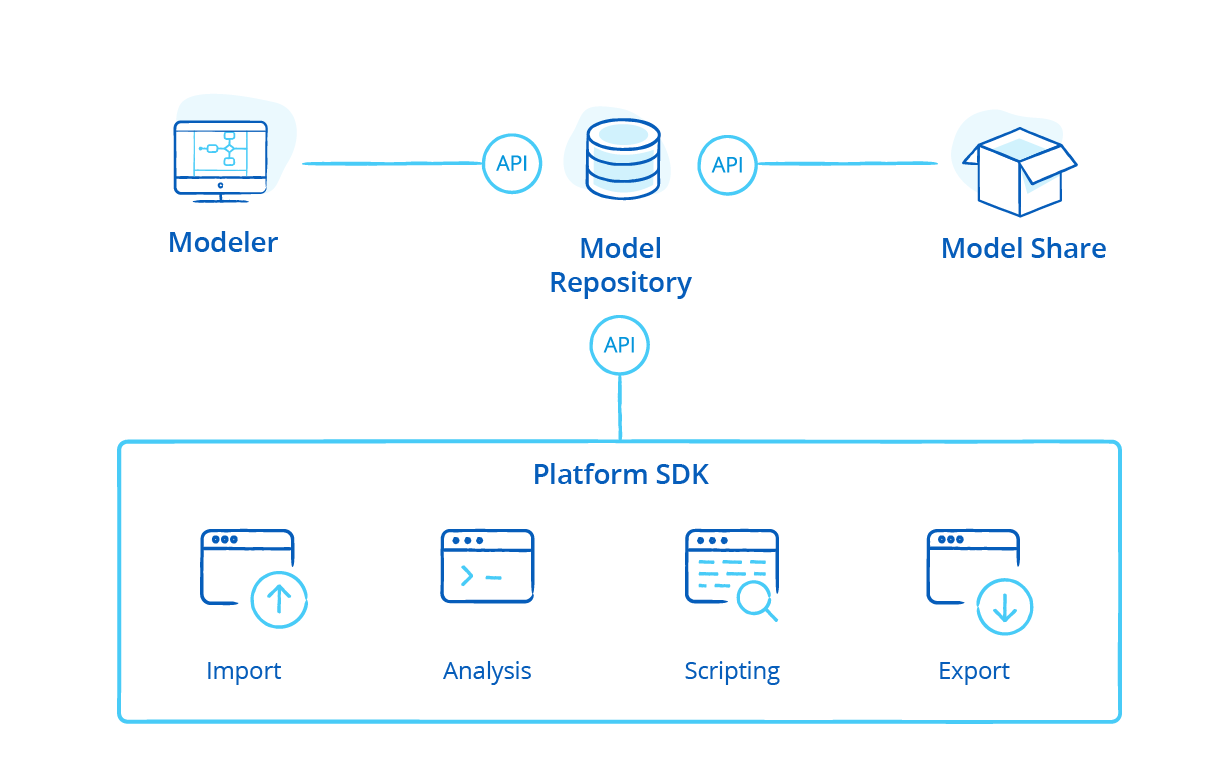
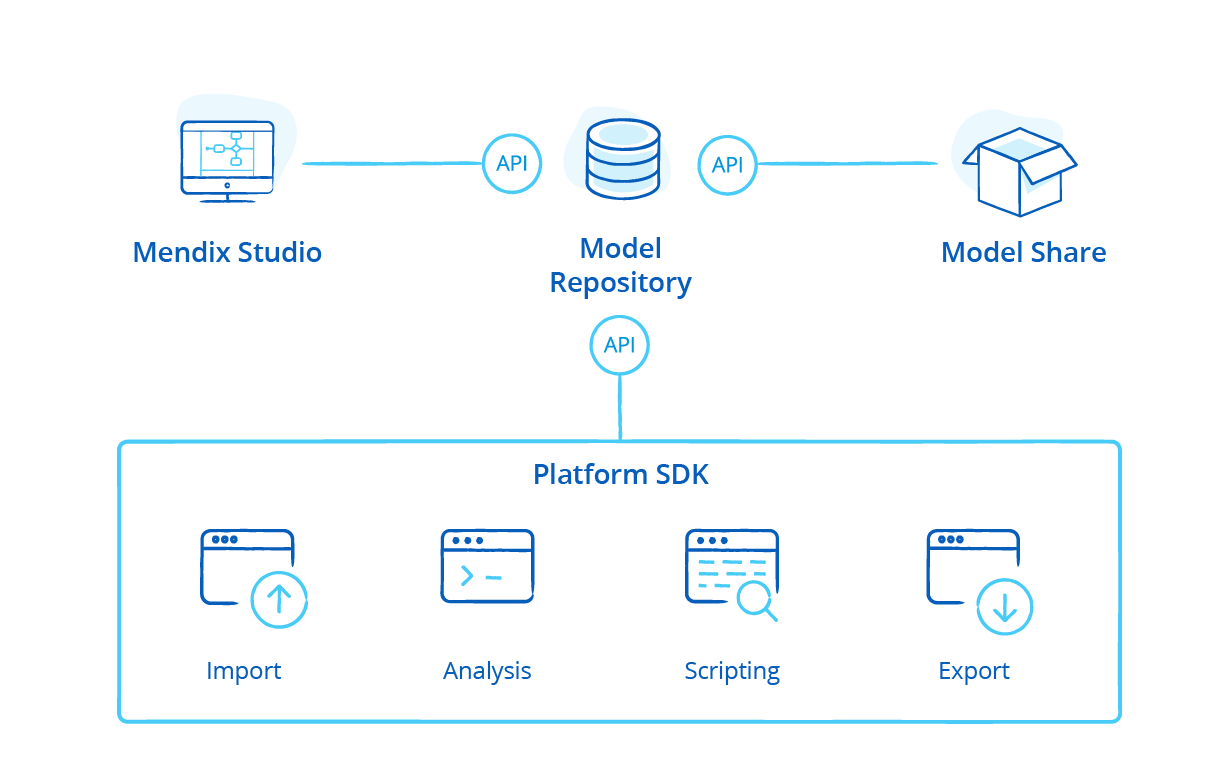
Implement name change

Changed region(s): [[0.0932, 0.1531, 0.2796, 0.3367], [0.7768, 0.3061, 0.9011, 0.3367]]

diff --git a/content/evaluation-guide/enterprise-capabilities/extensibility.md b/content/evaluation-guide/enterprise-capabilities/extensibility.md
@@ -81,7 +81,7 @@ For more information, see this Mendix documentation:
 
 ## 2 How Can I Provide Reusable Connectors to Third-Party Services? {#connectors}
 
-Generic connectors can be easily shared with other developers and companies. You can export a connector module from the Mendix Modeler that can then be imported into other Mendix app projects. The connector module can also be uploaded to the Mendix App Store – either to the Public App Store so anyone can use it, or to your company's Private App Store so that only developers in your company can reuse it. For more information, see [How to Share App Store Content](https://docs.mendix.com/developerportal/app-store/share-app-store-content) in the Mendix documentation.
+Generic connectors can be easily shared with other developers and companies. You can export a connector module from Mendix Studio and Mendix Studio Pro that can then be imported into other Mendix app projects. The connector module can also be uploaded to the Mendix App Store – either to the Public App Store so anyone can use it, or to your company's Private App Store so that only developers in your company can reuse it. For more information, see [How to Share App Store Content](https://docs.mendix.com/developerportal/app-store/share-app-store-content) in the Mendix documentation.
 
 Connectors include everything you need to use them, like microflow activities, logic, domain models, Java code, and any required Java libraries. This complexity will not be visible to the users of your connector. They can simply drag your custom microflow activities from the toolbox into any microflow to use your connector.
 
@@ -99,8 +99,8 @@ And for more information on building connectors, see [How to Build Microflow Act
 
 Mendix provides seamless integration with a number of tools that developers use:
 
-* By selecting **Deploy for Eclipse** in the Modeler, your Mendix app project will be made compatible with Eclipse,w hich means you can run and debug your app from Eclipse. You will also have access to the Java source code, where you can implement custom Java actions. For more information, see [Using Eclipse](https://docs.mendix.com/refguide/using-eclipse) and [How to Debug Java actions](https://docs.mendix.com/howto/monitoring-troubleshooting/debug-java-actions) in the Mendix documentation.
-* Many Mendix developers use IntelliJ IDEA. IntelliJ enables you to import Eclipse projects, so by selecting **Deploy for Eclipse** in the Mendix Modeler, you will also be able to do all your custom Java actions coding in IntelliJ.
+* By selecting **Deploy for Eclipse** in Mendix Studio and Mendix Studio Pro, your Mendix app project will be made compatible with Eclipse,w hich means you can run and debug your app from Eclipse. You will also have access to the Java source code, where you can implement custom Java actions. For more information, see [Using Eclipse](https://docs.mendix.com/refguide/using-eclipse) and [How to Debug Java actions](https://docs.mendix.com/howto/monitoring-troubleshooting/debug-java-actions) in the Mendix documentation.
+* Many Mendix developers use IntelliJ IDEA. IntelliJ enables you to import Eclipse projects, so by selecting **Deploy for Eclipse** in Mendix Studio and Mendix Studio Pro, you will also be able to do all your custom Java actions coding in IntelliJ.
 * Widget developers can benefit from the [Widget Generator](https://docs.mendix.com/howto/widget-development/scaffold-a-widget-with-the-yeoman-widget-generator) to quickly scaffold a new Mendix widget. This supports a number of commonly used JavaScript tools, like Yeoman, NodeJS, and Grunt. As this relies on common tools, you can edit your JavaScript widgets using a number of popular JavaScript IDEs, such as Brackets and WebStorm.
 
 ## 4 What Open Standards Does Mendix Support?

diff --git a/content/evaluation-guide/app-lifecycle/logic.md b/content/evaluation-guide/app-lifecycle/logic.md
@@ -66,7 +66,7 @@ A rule is a special kind of microflow and can be used to express business rules.
 
 ## 5 How Can I Add Custom Code to My Application?
 
-On the server side, Mendix provides out-of-the-box microflow logic and integration features based on REST, OData, and SOAP web services. This means that there is not often a need for custom code. If you do need to extend the microflow logic with your own (via a library call or an external service call that exposes via Java), the Mendix Modeler allows you to build Java logic that can be used directly from within the Mendix Modelers.
+On the server side, Mendix provides out-of-the-box microflow logic and integration features based on REST, OData, and SOAP web services. This means that there is not often a need for custom code. If you do need to extend the microflow logic with your own (via a library call or an external service call that exposes via Java), Mendix Studio and Mendix Studio Pro allow you to build Java logic that can be used directly from within the IDEs.
 
 For more details, see the following sections:
 
@@ -83,7 +83,7 @@ Integration with a third-generation programming language (in this case, Java) is
 ![Eclipse Integration Example](attachments/eclipse.png)
 {{% /image_container %}}
 
-In essence, you are never limited by the reach of a specific DSL and can always resort to the use of custom Java functions. Custom Java functions can be called from within a model, and the output can be used directly. The interface of each action (which equals a Java function) is also defined within the model. The name, parameters, and return values are all declared in Mendix Studio Pro. The Modeler generates a Java template class for each action, which is the hook where custom code can be added.
+In essence, you are never limited by the reach of a specific DSL and can always resort to the use of custom Java functions. Custom Java functions can be called from within a model, and the output can be used directly. The interface of each action (which equals a Java function) is also defined within the model. The name, parameters, and return values are all declared in Mendix Studio Pro. Mendix Studio and Mendix Studio Pro generates a Java template class for each action, which is the hook where custom code can be added.
 
 Whenever the interface definition in the app is renamed or refactored, the Java class template automatically changes without losing any of your custom code. Changes are also automatically caught by the Mendix Platform’s built-in consistency checker, which raises consistency errors in the custom code early in the development process. This ensures that the Java code will compile and the app extensions are consistent with the model before deployment takes place, saving valuable time during development iterations.
 
@@ -113,7 +113,7 @@ This error handling process ensures consistency across a Mendix app.
 
 ## 8 How Can I Reuse Logic?
 
-The following features in the Mendix Modelers make logic reuse easy:
+The following features in Mendix Studio and Mendix Studio Pro make logic reuse easy:
 
 * Existing **microflows** and rules can be called from any other microflow or page context in the Mendix app project. Mendix has refactoring tooling built in that makes it easy to extract logic from an existing microflow into a new microflow containing a well-defined interface of input parameters and a return type. The logic is then fully reusable from any other context.
 * You can reuse your existing **Java libraries and custom code** in the app logic.

diff --git a/content/evaluation-guide/app-lifecycle/model-consistency.md b/content/evaluation-guide/app-lifecycle/model-consistency.md
@@ -26,12 +26,12 @@ At the same time, Mendix offers professional developers the possibility to make 
 
 Here are some examples of consistency checking on the Mendix Platform:
 
-* The Modeler prevents the deployment of an app that has an input field connected to a wrongly-typed attribute or to an attribute that no longer exists (for example, a text box connected to a Boolean attribute).
+* Mendix Studio and Mendix Studio Pro prevent the deployment of an app that has an input field connected to a wrongly-typed attribute or to an attribute that no longer exists (for example, a text box connected to a Boolean attribute).
 * Mendix automatically hides navigation menu options from the user that lead to pages for which the current user does not have sufficient rights.
-* The Modeler shows an error if the user with a given role can navigate to a page that displays entities and/or attributes that are inaccessible to users of that role due to security settings.
+* Mendix Studio and Mendix Studio Pro show an error if the user with a given role can navigate to a page that displays entities and/or attributes that are inaccessible to users of that role due to security settings.
 * When defining data retrievals in your application, Mendix validates whether the resulting database queries are both syntactically and semantically correct and will execute successfully against the database.
 
-The implication for testing is that these consistency checks can point out or prevent defects that could easily slip through in non-Mendix development efforts. This results in fewer defects to deal with. In some instances, these checks also work proactively (for example, when you change the name of an attribute, the Modeler adjusts all references to this attribute). This again reduces the chances of defects slipping into your model.
+The implication for testing is that these consistency checks can point out or prevent defects that could easily slip through in non-Mendix development efforts. This results in fewer defects to deal with. In some instances, these checks also work proactively (for example, when you change the name of an attribute, Mendix Studio and Mendix Studio Pro adjust all references to this attribute). This again reduces the chances of defects slipping into your model.
 
 ### 1.2 Single Modeling Environment
 
@@ -55,7 +55,7 @@ The intrinsic quality and consistency checking mechanisms in Mendix are key cont
 
 ### 1.5 Model Refactoring
 
-The Mendix Modeler has extensive support for model refactoring. For example, when the user refactors the name of a page or a microflow variable, the Modeler will propagate the refactoring in all model parts, keeping the model consistent. Such refactoring is automatically and consistently propagated throughout the whole model.
+Mendix Studio and Mendix Studio Pro have extensive support for model refactoring. For example, when the user refactors the name of a page or a microflow variable, Mendix Studio and Mendix Studio Pro will propagate the refactoring in all model parts, keeping the model consistent. Such refactoring is automatically and consistently propagated throughout the whole model.
 
 When the refactoring requires a conscious decision by the user (for example, adding an additional input parameter to a microflow signature), the model consistency checks provide direct feedback on which parts of the model require further action before the the application can be deployed again.
 

diff --git a/content/evaluation-guide/enterprise-capabilities/openness-api-sdk.md b/content/evaluation-guide/enterprise-capabilities/openness-api-sdk.md
@@ -50,7 +50,7 @@ These are some examples of how you can increase productivity and quality using t
 
 These are some examples of how you can extend the Mendix Platform with new functionality:
 
-* The [Connector Kit](https://www.mendix.com/blog/introducing-mendix-connector-kit/) enables creating custom integration and connectors. You can create a set of visual reusable microflow activities to handle integration with all sorts of services and existing applications. The Mendix App Store contains connectors for services like [Slack](https://appstore.home.mendix.com/link/app/2978/) and [Twitter](https://appstore.home.mendix.com/link/app/2922/). Using these services becomes as simple as dragging a microflow activity from your Modeler toolbox into a microflow.
+* The [Connector Kit](https://www.mendix.com/blog/introducing-mendix-connector-kit/) enables creating custom integration and connectors. You can create a set of visual reusable microflow activities to handle integration with all sorts of services and existing applications. The Mendix App Store contains connectors for services like [Slack](https://appstore.home.mendix.com/link/app/2978/) and [Twitter](https://appstore.home.mendix.com/link/app/2922/). Using these services becomes as simple as dragging a microflow activity from your Mendix Studio and Mendix Studio Pro toolbox into a microflow.
 * Since connectors are written in Java, they can use any Java library available. That means you can seamlessly integrate existing scientific libraries into your Mendix application. And via the [Mendix Runtime API](https://docs.mendix.com/refguide/runtime), a connector can utilize all the functionality in your app model, including entities, data sets, microflows, pages, and configurations.
 * The Mendix Runtime API is also used to provide integration for Mendix apps with existing identity management systems like Microsoft Active Directory. To see how this is done, check out the [SAML](https://appstore.home.mendix.com/link/app/1174/Mendix/SAML) module in the Mendix App Store.
 * You can extend the way data is stored and retrieved in Mendix. Through the SQL API, it is possible to use database-specific functionality like indexes that can improve performance for specific situations. Integrations with alternative databases (for example, NoSQL databases) are also possible. For details, see the [Redis Connector](https://appstore.home.mendix.com/link/app/3087/Appronto/Redis-connector) and [Cassandra Connector](https://appstore.home.mendix.com/link/app/66289/TimeSeries/Cassandra-Connector) in the Mendix App Store.

diff --git a/content/evaluation-guide/app-capabilities/front-end.md b/content/evaluation-guide/app-capabilities/front-end.md
@@ -58,7 +58,7 @@ In addition to nanoflows, it is possible to directly use client-side expressions
 
 ## 4 How Can I Extend the Mendix Front-End? {#extend}
 
-Mendix makes it possible to extend the front-end by creating custom widgets that have a seamless integration with the Modeler and making them part of your app's model. You can define all types of parameters and make these widgets reusable. The input parameters are transformed into easy-to-use settings screens that can be configured from the Modeler. In addition, custom widgets have preview capabilities for a WYSIWYG effect, making it easy to get an impression of the widget and quickly verify its configuration.
+Mendix makes it possible to extend the front-end by creating custom widgets that have a seamless integration with Mendix Studio and Mendix Studio Pro to make them part of your app's model. You can define all types of parameters and make these widgets reusable. The input parameters are transformed into easy-to-use settings screens that can be configured from Mendix Studio and Mendix Studio Pro. In addition, custom widgets have preview capabilities for a WYSIWYG effect, making it easy to get an impression of the widget and quickly verify its configuration.
 
 You can version custom widgets and upload them to a Mendix Private App Store so that other developers can easily use them. It is also possible to share widgets manually or embed them in (company) starter apps.
 
@@ -70,6 +70,6 @@ For more information, see the [Widget Development](https://docs.mendix.com/howto
 
 ## 5 Does Mendix Support Multilingual Apps?
 
-Mendix fully supports multilingual apps. In the Modeler, you can configure multiple languages per app, and texts and captions can all be configured for multiple languages. Per language, default number and date formats can be configured for the whole app. When you use numbers and dates they are automatically applied, but it is also possible to locally specify custom formats.
+Mendix fully supports multilingual apps. In Mendix Studio and Mendix Studio Pro, you can configure multiple languages per app, and texts and captions can all be configured for multiple languages. Per language, default number and date formats can be configured for the whole app. When you use numbers and dates they are automatically applied, but it is also possible to locally specify custom formats.
 
 For more details, see the section [How Does Mendix Support Multilingual Apps?](../app-lifecycle/user-interfaces#multi-lingual) in *User Interfaces*.

diff --git a/content/evaluation-guide/app-lifecycle/test-automation-qa.md b/content/evaluation-guide/app-lifecycle/test-automation-qa.md
@@ -12,7 +12,7 @@ tags: ["test automation", "quality assurance", "model", "aqm", "unit test", "fun
 
 The Mendix Platform provides development teams with an extensive toolset and extension points to set up quality assurance via efficient test automation.
 
-Mendix apps are built from standard components that are already pre-tested by Mendix. The internal consistency of a custom application model that a development team builds on top of these components is continuously checked by the Mendix Modeler. The goal of this is to catch common modeling mistakes and issues early in development. For more details, see  [How Does Mendix Ensure the Quality of My Apps?](#ensure) below.
+Mendix apps are built from standard components that are already pre-tested by Mendix. The internal consistency of a custom application model that a development team builds on top of these components is continuously checked by Mendix Studio and Mendix Studio Pro. The goal of this is to catch common modeling mistakes and issues early in development. For more details, see  [How Does Mendix Ensure the Quality of My Apps?](#ensure) below.
 
 During development, the [Mendix Application Quality Monitor (AQM)](https://docs.mendix.com/aqm/) provides insight into the quality of the application models that you are building. Dashboards provide high-level details and allow you to drill down at the microflow level. For more details, see the section [What Tools Are Available for Quality-Monitoring Mendix Apps?](quality-monitoring#quality-monitoring) in *Quality Monitoring*.
 
@@ -38,7 +38,7 @@ These three main ways are explained below in detail.
 
 ### 2.1 Enforcing Consistency Within Your Application Model
 
-The Mendix Modeler continuously monitors whether the entirety of the application model is internally consistent. For example, the microflow activities and page elements you define need to be consistent with the domain model. The Modeler will show an error and prevent the deployment of an application that does not pass the consistency checks.
+Mendix Studio and Mendix Studio Pro continuously monitor whether the entirety of the application model is internally consistent. For example, the microflow activities and page elements you define need to be consistent with the domain model. Mendix Studio and Mendix Studio Pro will show an error and prevent the deployment of an application that does not pass the consistency checks.
 
 For more information, see [Model Consistency](model-consistency).
 

diff --git a/content/evaluation-guide/app-lifecycle/app-development.md b/content/evaluation-guide/app-lifecycle/app-development.md
@@ -14,7 +14,7 @@ The Mendix platform is designed for a variety of app developers, from business-o
 
 ![The Developer Continuum - Solution Focused vs Technology Focused](attachments/developer-continuum.png)
 
-**Business Analysts** and **Business Developers** can directly use Mendix Studio to build, review, and collaborate on an app. Mendix Studio provides the tools to build the app, regardless of the user's programming experience or background. Users familiar with Mendix Studio can also start using Mendix Studio Pro if more advanced app features need to be added. The Modelers share the same concepts and terminology, which makes for a smooth user experience.
+**Business Analysts** and **Business Developers** can directly use Mendix Studio to build, review, and collaborate on an app. Mendix Studio provides the tools to build the app, regardless of the user's programming experience or background. Users familiar with Mendix Studio can also start using Mendix Studio Pro if more advanced app features need to be added. Mendix Studio and Mendix Studio Pros share the same concepts and terminology, which makes for a smooth user experience.
 
 **Developers** with a technical programming background (for example, JavaScript, Java, or .NET) can use Mendix Studio Pro along with CSS, Java, and JavaScript to build, customize, and extend a Mendix app.
 
@@ -28,7 +28,7 @@ For information on getting started with Mendix, have a look at [First Steps with
 
 ## 3 How Does Mendix Enable Model-Driven Development? {#enable}
 
-![Web and Desktop Application Modelers](attachments/BothModelers.png)
+![Mendix Studio and Mendix Studio Pro app-modeling](attachments/both-studios.png)
 
 While both Mendix Studio and Mendix Studio Pro environments support the ability to build data models, pages, and logic, their target audiences differ, and their features are tuned accordingly.
 
@@ -78,7 +78,7 @@ The **Instant Update** feature in Mendix Studio Pro provides the fastest way to 
 
 You can even test changes locally without the need for an internet connection using `http://localhost:{dynamic variable port}`.
 
-### 3.5 Which Operating Systems Do the Mendix Modelers Support? {#operating-systems}
+### 3.5 Which Operating Systems Do Mendix Studio and Mendix Studio Pro Support? {#operating-systems}
 
 Most Mendix Platform features are browser-based, including Mendix Studio. These features are available on Windows, MacOS, and Linux.
 

diff --git a/content/evaluation-guide/enterprise-capabilities/platform-architecture.md b/content/evaluation-guide/enterprise-capabilities/platform-architecture.md
@@ -21,7 +21,7 @@ The below diagram provides an overview of the key components of the Mendix Platf
 The sections below go into more detail about the following main modules and services of the Mendix Platform:
 
 * [Developer Portal](#dev-portal)
-* [Modelers](#studios)
+* [Mendix Studio and Mendix Studio Pro](#studios)
 * [Team Server](#team-server)
 * [Build Server](#build-server)
 * [MxID](#mxid)
@@ -34,9 +34,9 @@ The Mendix Developer Portal is a collaborative environment for the design, devel
 
 The Developer Portal is where you do most of your requirements management and tracking according to the Scrum methodology. You can define Sprints and stories, follow the progress, and see the velocity for your project. The is hosted on the Mendix public cloud running on AWS.
 
-### 2.2 What Are the Mendix Modelers? {#studios}
+### 2.2 What Is Mendix Studio and Mendix Studio Pro? {#studios}
 
-[Mendix Studio Pro](https://docs.mendix.com/refguide/desktop-modeler-overview) and [Mendix Studio](https://docs.mendix.com/refguide/web-modeler/overview-wm) are the multi-user modeling studios of the Mendix Platform. The general purpose of the Modelers is to provide an integrated, unified modeling space, where business analysts, and IT engineers can work closely together to model the various application elements. Mendix Studio Pro runs locally on the developer’s computer and has an integrated build service for working fully offline, while Mendix Studio is hosted on the [Mendix Cloud](../app-capabilities/mendix-cloud-overview).
+[Mendix Studio Pro](https://docs.mendix.com/refguide/desktop-modeler-overview) and [Mendix Studio](https://docs.mendix.com/refguide/web-modeler/overview-wm) are the multi-user modeling studios of the Mendix Platform. The general purpose of Mendix Studio and Mendix Studio Pro is to provide an integrated, unified modeling space, where business analysts, and IT engineers can work closely together to model the various application elements. Mendix Studio Pro runs locally on the developer’s computer and has an integrated build service for working fully offline, while Mendix Studio is hosted on the [Mendix Cloud](../app-capabilities/mendix-cloud-overview).
 
 ### 2.3 What Is the Team Server? {#team-server}
 

diff --git a/content/evaluation-guide/app-capabilities/mobile-apps.md b/content/evaluation-guide/app-capabilities/mobile-apps.md
@@ -36,7 +36,7 @@ Mendix also leverages [PhoneGap Build](https://build.phonegap.com/) to build the
 
 ## 4 How Can I Update My Mobile App?
 
-From the Mendix Modeler, changes can be published to the preferred environment, and the mobile app will automatically load the latest changes. There is no need to go through the app store process, which makes updating apps efficient.
+From Mendix Studio or Mendix Studio Pro, changes can be published to the preferred environment, and the mobile app will automatically load the latest changes. There is no need to go through the app store process, which makes updating apps efficient.
 
 <video controls  src="attachments/update-app.mp4">VIDEO</video>
 
@@ -48,7 +48,7 @@ A new app store publication is needed when changes are required for the generate
 
 ## 5 How Can I Preview & Test My Mobile App? {#mxapp-preview}
 
-There are several approaches to testing your mobile app. Mendix offers an out-of-the-box mobile view in the browser, so you can preview your mobile app with one click. And with the [Mendix mobile app](https://docs.mendix.com/refguide/getting-the-mendix-app) (available for [Android](https://play.google.com/store/apps/details?id=com.mendix.SprintrMobile) and [iOS](https://itunes.apple.com/nl/app/mendix/id458058946)), you can quickly test the mobile app on a real device by scanning the QR code in the Modeler. This can be used for local testing, but also to test mobile apps that are published to the (free) cloud.
+There are several approaches to testing your mobile app. Mendix offers an out-of-the-box mobile view in the browser, so you can preview your mobile app with one click. And with the [Mendix mobile app](https://docs.mendix.com/refguide/getting-the-mendix-app) (available for [Android](https://play.google.com/store/apps/details?id=com.mendix.SprintrMobile) and [iOS](https://itunes.apple.com/nl/app/mendix/id458058946)), you can quickly test the mobile app on a real device by scanning the QR code in Mendix Studio and Mendix Studio Pro. This can be used for local testing, but also to test mobile apps that are published to the (free) cloud.
 
 <video controls src="attachments/MA_TestingMobile.mp4">VIDEO</video>
 

diff --git a/content/evaluation-guide/app-lifecycle/app-build.md b/content/evaluation-guide/app-lifecycle/app-build.md
@@ -26,9 +26,9 @@ It is important to note that you do not need to create a build for your applicat
 
 Regardless of where the Team Server is hosted (by default in the Mendix Cloud, or alternatively, with an [on-premises Team Server implementation](version-control#ts-on-prem)), Mendix supports full automation of the build process.
 
-For almost all customers, the fully managed Mendix Team Server is the optimal solution for the version control of Mendix application models. In this scenario, the Mendix Developer Portal and Mendix Modeler provide user interfaces to easily create versioned deployment archives. Platform APIs enable development teams to fully automate this process.
+For almost all customers, the fully managed Mendix Team Server is the optimal solution for the version control of Mendix application models. In this scenario, the Mendix Developer Portal, Mendix Studio, and Mendix Studio Pro provide user interfaces to easily create versioned deployment archives. Platform APIs enable development teams to fully automate this process.
 
-In some specific cases, an on-premises Team Server implementation can be used. In this scenario, Mendix provides an on-premises solution for the build process. You can use the [MxBuild](https://docs.mendix.com/refguide/mxbuild) command-line tool to automate the build process. MxBuild provides the same model consistency guarantees mentioned above in the section [How Do I Create a Build for My App?](#build-my-app) as when the Mendix Modeler, Developer Portal, or platform APIs are used to create a deployment package.
+In some specific cases, an on-premises Team Server implementation can be used. In this scenario, Mendix provides an on-premises solution for the build process. You can use the [MxBuild](https://docs.mendix.com/refguide/mxbuild) command-line tool to automate the build process. MxBuild provides the same model consistency guarantees mentioned above in the section [How Do I Create a Build for My App?](#build-my-app) as when Mendix Studio, Mendix Studio Pro, the Developer Portal, or platform APIs are used to create a deployment package.
 
 ## 3 How Can I Integrate the Mendix Build Process in My CI/CD Pipeline?
 

diff --git a/content/evaluation-guide/app-lifecycle/version-control.md b/content/evaluation-guide/app-lifecycle/version-control.md
@@ -10,7 +10,7 @@ tags: ["version control", "multi-user", "user stories", "svn", "branching", "mer
 
 ## 1 How Does Mendix Support Multi-User Development? {#multi-user}
 
-Mendix Studio Pro and Mendix Studio combine multi-user development across different skill levels. Team members can choose the Modeler that fits their needs best. More information can be found in [App Development](app-development).
+Mendix Studio Pro and Mendix Studio combine multi-user development across different skill levels. Team members can choose Mendix Studio or Mendix Studio Pro, depending on their needs. More information can be found in [App Development](app-development).
 
 At the start of a project, all team members can work together on the main line of the version control repository. Mendix Studio Pro users can share app updates with the rest of the team using the update and commit pattern via the version control repository. All changes made by team members using Mendix Studio will be shared via the version control repository when the Mendix Studio Pro user requests an update from the version control repository.
 
@@ -106,6 +106,6 @@ If a whole folder (or module) was deleted and another developer changes a docume
 
 ## 10 How Can I Resolve Conflicts in External Files like Java Classes, Widgets & Images?
 
-By default, the Mendix Modeler also does a diff comparison on external files like Java classes. When there are new versions or files have been deleted, this is directly handled by Mendix Studio Pro itself.
+By default, Mendix Studio and Mendix Studio Pro also perform a diff comparison on external files like Java classes. When there are new versions or files have been deleted, this is directly handled by Mendix Studio Pro itself.
 
 For additional diffing or conflict resolution on external files, external SVN tools like Tortoise SVN can be used.

diff --git a/content/evaluation-guide/app-capabilities/web-apps.md b/content/evaluation-guide/app-capabilities/web-apps.md
@@ -12,7 +12,7 @@ tags: ["web app", "app", "application"]
 
 As discussed in the [How Does Mendix Support Multi-Channel Applications?](front-end#support-multi-channel) section of *Front-End*, a web app is one possible channel for Mendix applications. The Mendix Client is responsible for rendering web apps, which are rich single-page applications (SPA) based on JavaScript, HTML5, and CSS3.
 
-Using the WYSIWYG page editor in the Mendix Modelers, users can model pages and interactions that can run locally or be deployed directly from the Modeler. When running locally, the changes are made visible directly. This is done with our **instant update** feature that instantly reloads the UI while preserving the current state, making testing and previewing apps a breeze.
+Using the WYSIWYG page editor in Mendix Studio and Mendix Studio Pros, users can model pages and interactions that can run locally or be deployed directly from Mendix Studio and Mendix Studio Pro. When running locally, the changes are made visible directly. This is done with our **instant update** feature that instantly reloads the UI while preserving the current state, making testing and previewing apps a breeze.
 
 When an app is deployed to the cloud, the static resources (HTML, CSS, JavaScript) are deployed on a front-facing server that caches and efficiently serves the resources. The main entry is the *index.html* page, which loads the Mendix Client, renders the page, and starts handling events. If authentication is needed, the end-user is redirected to either the login page or an identity provider. Mendix makes sure that there are no caching issues when deploying new versions by applying a cache-busting mechanism.
 
